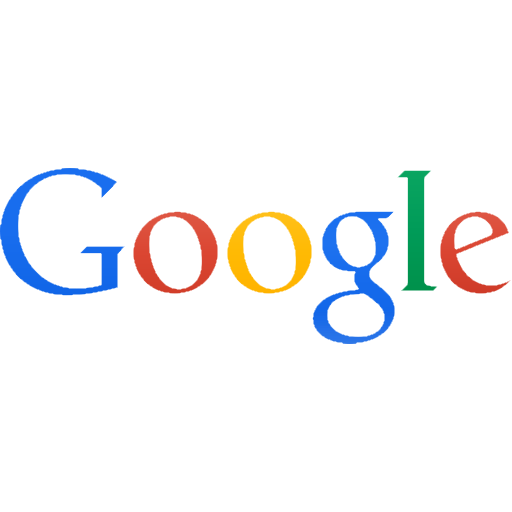
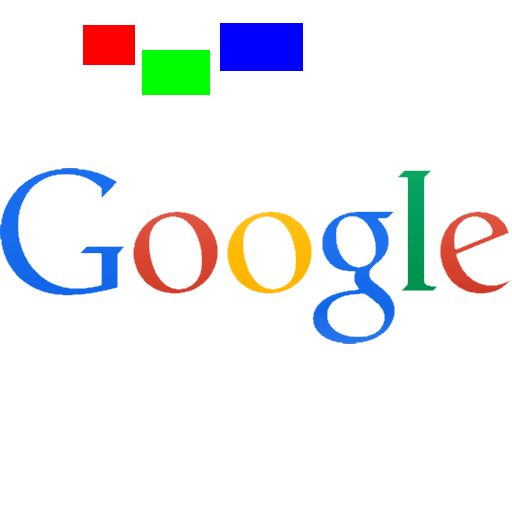
add new way to render shadows

Changed region(s): [[0.1562, 0.0312, 0.5938, 0.1875]]

diff --git a/SparrowGame.Shared/ComputeShaderTest.cs b/SparrowGame.Shared/ComputeShaderTest.cs
@@ -28,11 +28,11 @@ namespace SparrowGame.Shared
             Texture tt = Texture.Empty(TexW, TexH, false, 0, false, 1.0f, TextureFormat.Rgba8888);
             var texOutput = tt.Base;
 
-            Gl.BindImageTexture(0, texOutput, 0, false, 0, Gl.READ_WRITE, Gl.RGBA8);
-            Gl.BindImageTexture(1, bg.Base, 0, false, 0, Gl.READ_ONLY, Gl.RGBA8);
-            Gl.BindImageTexture(2, transp.Base, 0, false, 0, Gl.READ_ONLY, Gl.RGBA8);
+            Gl.BindImageTexture(0, texOutput, 0, false, 0, BufferAccess.ReadWrite, InternalFormat.Rgba8);
+            Gl.BindImageTexture(1, bg.Base, 0, false, 0, BufferAccess.ReadOnly, InternalFormat.Rgba8);
+            Gl.BindImageTexture(2, transp.Base, 0, false, 0, BufferAccess.ReadOnly, InternalFormat.Rgba8);
 
-            uint computeShader = Gl.CreateShader(Gl.COMPUTE_SHADER);
+            uint computeShader = Gl.CreateShader(ShaderType.ComputeShader);
             string shaderStr = loader.GetEmbeddedResourceString("lightComputeShader.glsl");
             Gl.ShaderSource(computeShader, new[] { shaderStr });
             Gl.CompileShader(computeShader);
@@ -56,11 +56,11 @@ namespace SparrowGame.Shared
             }
             
             buffer = Gl.GenBuffer();
-            Gl.BindBufferBase(Gl.UNIFORM_BUFFER, 3, buffer); // bind it to layout binding 3
+            Gl.BindBufferBase(BufferTarget.UniformBuffer, 3, buffer); // bind it to layout binding 3
             uint bSize = (uint) (LightData.Size * allLightData.Length);
-            Gl.BufferData(BufferTargetARB.UniformBuffer, bSize, null, BufferUsageARB.DynamicDraw);
+            Gl.BufferData(BufferTarget.UniformBuffer, bSize, null, BufferUsage.DynamicDraw);
             
-            Gl.BindBuffer(BufferTargetARB.UniformBuffer, 0); // unbind
+            Gl.BindBuffer(BufferTarget.UniformBuffer, 0); // unbind
         }
 
         public sealed override Texture Texture
@@ -96,18 +96,18 @@ namespace SparrowGame.Shared
             }
 
             
-            Gl.BindBufferBase(Gl.UNIFORM_BUFFER, 3, buffer); // bind it to layout binding 3
+            Gl.BindBufferBase(BufferTarget.UniformBuffer, 3, buffer); // bind it to layout binding 3
             uint bSize = (uint) (LightData.Size * allLightData.Length);
-            Gl.BufferData(BufferTargetARB.UniformBuffer, bSize, allLightData, BufferUsageARB.StaticRead);
+            Gl.BufferData(BufferTarget.UniformBuffer, bSize, allLightData, BufferUsage.StaticRead);
            
             int loc = Gl.GetUniformLocation(_rayProgram, "lightNum");
             Gl.Uniform1(loc, (uint)2); // NUM LIGHTS
             
-            Gl.BindBuffer(BufferTargetARB.UniformBuffer, 0); // unbind
+            Gl.BindBuffer(BufferTarget.UniformBuffer, 0); // unbind
             
             Gl.DispatchCompute(4, 4, 1); // 4x4 = 16 work groups
             // make sure writing to image has finished before read. Put this as close to the tex sampler code as possible
-            Gl.MemoryBarrier(Gl.SHADER_IMAGE_ACCESS_BARRIER_BIT);
+            Gl.MemoryBarrier(MemoryBarrierMask.ShaderImageAccessBarrierBit);
             base.Render(painter);
         }
                 

diff --git a/SparrowGame.Shared/GameMain.cs b/SparrowGame.Shared/GameMain.cs
@@ -23,21 +23,22 @@ namespace SparrowGame.Shared
         
         private void AddedToStageHandler(DisplayObject target, DisplayObject currentTarget)
         {
+            Stage.Color = 0xa4a1ef;
             EmbeddedResourceLoader loader = new EmbeddedResourceLoader("SparrowGame");
             Texture bg = SimpleTextureLoader.LoadImageFromStream(loader.GetEmbeddedResourceStream("testbg_google.png"));
             Quad quad = new Quad(512, 512);
             quad.Texture = bg;
-            _customStyle = new CustomStyle();
-            quad.SetStyle(_customStyle);
+           // _customStyle = new CustomStyle();
+           // quad.SetStyle(_customStyle);
             AddChild(quad);
+            quad.Touch += OnTouch;
             
-            //AddChild(new ComputeShaderTest());
+            AddChild(new ComputeShaderTest());
             
             Button btn = new Button(Texture.FromColor(100, 30, 0x12ef23, 0.8f), "test button");
-            btn.X = 520;
+            btn.X = 470;
             AddChild(btn);
-            
-            quad.Touch += OnTouch;
+           
         }
         
         private void OnTouch(TouchEvent touch)

diff --git a/SparrowGame/MainClass.cs b/SparrowGame/MainClass.cs
@@ -10,15 +10,15 @@ namespace SparrowGame
 		[STAThread]
 		public static void Main()
 		{
-			if (Environment.OSVersion.Version.Major >= 6) SetProcessDPIAware();
-            Application.EnableVisualStyles();
-            Application.SetCompatibleTextRenderingDefault(false);
+			//if (Environment.OSVersion.Version.Major >= 6) SetProcessDPIAware();
+            //Application.EnableVisualStyles();
+            //Application.SetCompatibleTextRenderingDefault(false);
 
-            DesktopViewController dvc = new DesktopViewController (typeof(GameMain), 960, 640);
-            Application.Run(dvc);
+            System.Windows.Application app = new System.Windows.Application();
+            app.Run(new DesktopViewController(typeof(GameMain), 960, 640));
         }
 
-		[System.Runtime.InteropServices.DllImport("user32.dll")]
-		private static extern bool SetProcessDPIAware();
+		//[System.Runtime.InteropServices.DllImport("user32.dll")]
+		//private static extern bool SetProcessDPIAware();
 	}
 }

diff --git a/SparrowGame.Shared/CustomMesh/CustomEffect.cs b/SparrowGame.Shared/CustomMesh/CustomEffect.cs
@@ -12,10 +12,8 @@ namespace SparrowGame.Shared.CustomMesh
         protected override Program CreateProgram()
         {
             EmbeddedResourceLoader loader = new EmbeddedResourceLoader("SparrowGame");
-            string frag = AddShaderInitCode() + "\n" +
-                loader.GetEmbeddedResourceString("FragShader.frag");
-            string vert = AddShaderInitCode() + "\n" + 
-                loader.GetEmbeddedResourceString("VertShader.vert");
+            string frag = AddShaderInitCode() + loader.GetEmbeddedResourceString("FragShader.frag");
+            string vert = AddShaderInitCode() + loader.GetEmbeddedResourceString("VertShader.vert");
             return new Program(vert, frag);
         }
 

diff --git a/SparrowGame.Shared/CustomMesh/CustomStyle.cs b/SparrowGame.Shared/CustomMesh/CustomStyle.cs
@@ -9,17 +9,5 @@ namespace SparrowGame.Shared.CustomMesh
         {
             return new CustomEffect();
         }
-
-        /*
-        public override void UpdateEffect(MeshEffect effect, RenderState state)
-        {
-            base.UpdateEffect(effect, state);
-        }
-
-        public override void CopyFrom(MeshStyle meshStyle)
-        {
-            base.CopyFrom(meshStyle);
-        }
-        */
     }
 }

diff --git a/SparrowGame.Android/Resources/Resource.Designer.cs b/SparrowGame.Android/Resources/Resource.Designer.cs
@@ -26,6 +26,8 @@ namespace SparrowGame
 		
 		public static void UpdateIdValues()
 		{
+			global::Sparrow.Droid.Resource.String.ApplicationName = global::SparrowGame.Resource.String.ApplicationName;
+			global::Sparrow.Droid.Resource.String.Hello = global::SparrowGame.Resource.String.Hello;
 		}
 		
 		public partial class Attribute

diff --git a/SparrowGame.Android/MainActivity.cs b/SparrowGame.Android/MainActivity.cs
@@ -3,7 +3,7 @@ using Android.Views;
 using Android.OS;
 using Android.Content.PM;
 using Sparrow.Core;
-using Sparrow.Samples;
+using SparrowGame.Shared;
 
 namespace SparrowGame
 {
